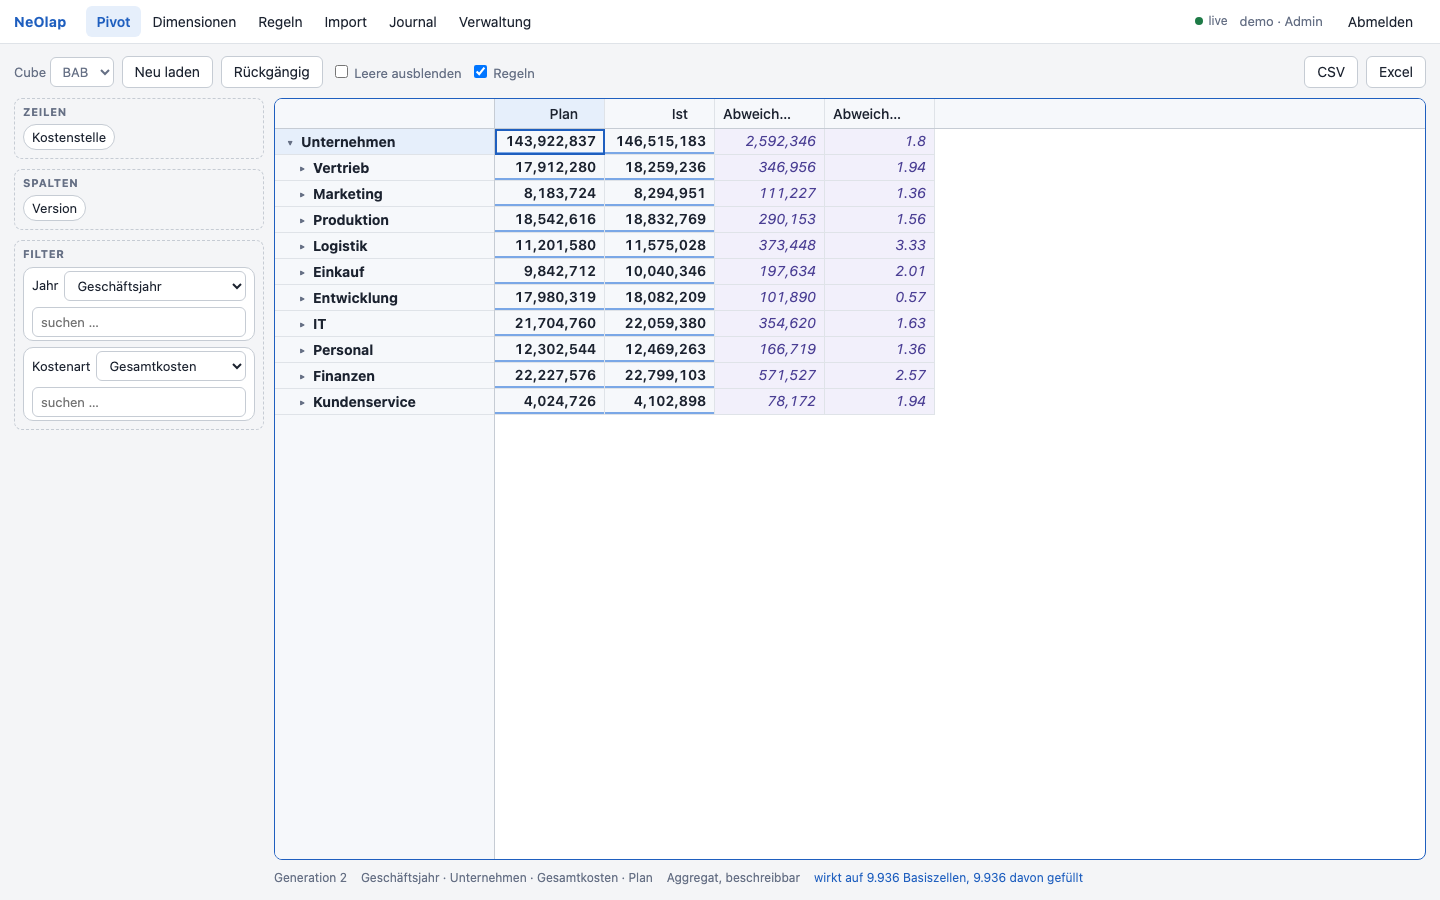
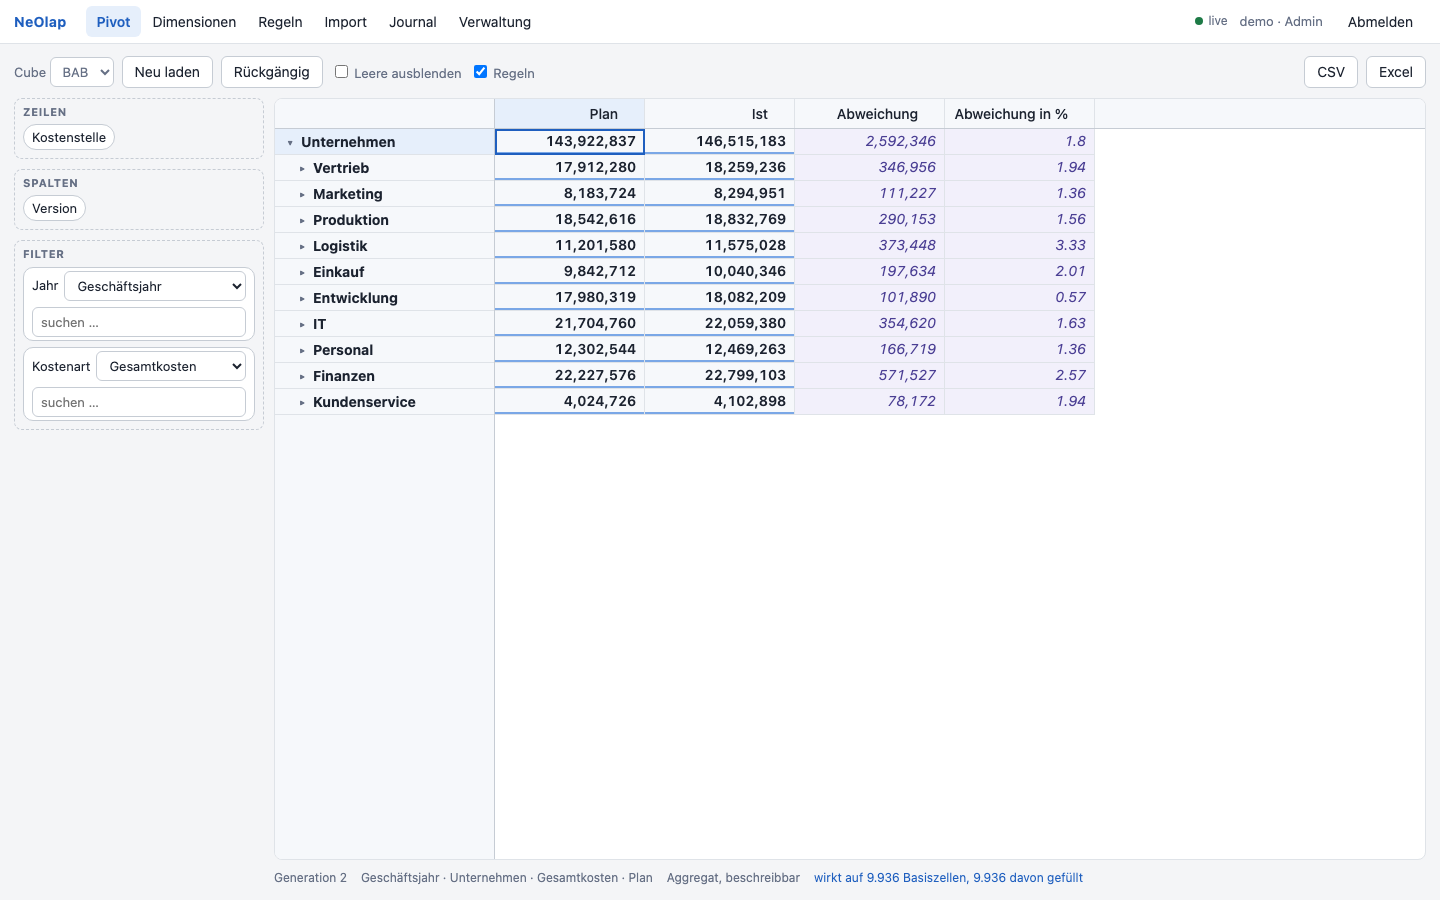
Web-UI: Spalten 150 statt 110 px, damit lange Köpfe nicht abgeschnitten werden; BAB-Bilder neu

Changed region(s): [[0.3438, 0.1244, 0.7188, 0.4667], [0.7188, 0.1556, 0.75, 0.4667]]

diff --git a/ui/grid.js b/ui/grid.js
@@ -12,7 +12,7 @@ import { GridSelection, offsetsFor, visibleRange, scrollToReveal, NAV_KEYS } fro
 import { h, formatNumber } from './dom.js';
 
 const ROW_HEIGHT = 26;
-const COL_WIDTH = 110;
+const COL_WIDTH = 150; // keep in sync with --col-w in style.css; fits "Abweichung in %" with its toggle
 const HEADER_WIDTH = 220;
 const HEADER_HEIGHT = 30;
 

diff --git a/ui/style.css b/ui/style.css
@@ -23,7 +23,7 @@
   --shadow: 0 1px 2px rgb(16 24 40 / 8%), 0 4px 16px rgb(16 24 40 / 8%);
   --radius: 8px;
   --row-h: 26px;
-  --col-w: 110px;
+  --col-w: 150px;
   --head-w: 220px;
   --head-h: 30px;
 }

diff --git a/README.md b/README.md
@@ -134,7 +134,7 @@ neolap set bab.neolap BAB Q1 Vertrieb Gesamtkosten Plan +5%        # Plan im Ver
 neolap export bab.neolap BAB --area "Version=Ist|Plan,Kostenart=Gehälter" -o gehaelter.csv
 ```
 
-> Das Beispiel enthält keine Umlage von Hilfs- auf Hauptkostenstellen. Die Spaltenköpfe „Abweichung“ und „Abweichung in %“ sind in der Oberfläche bei der Standardbreite abgeschnitten („Abweich…“). Die Bilder stammen aus dem Headless-Browser, nicht aus einer Abnahme von Hand.
+> Das Beispiel enthält keine Umlage von Hilfs- auf Hauptkostenstellen. Die Bilder stammen aus dem Headless-Browser, nicht aus einer Abnahme von Hand.
 
 ### 2. Fertiges Programm
 
